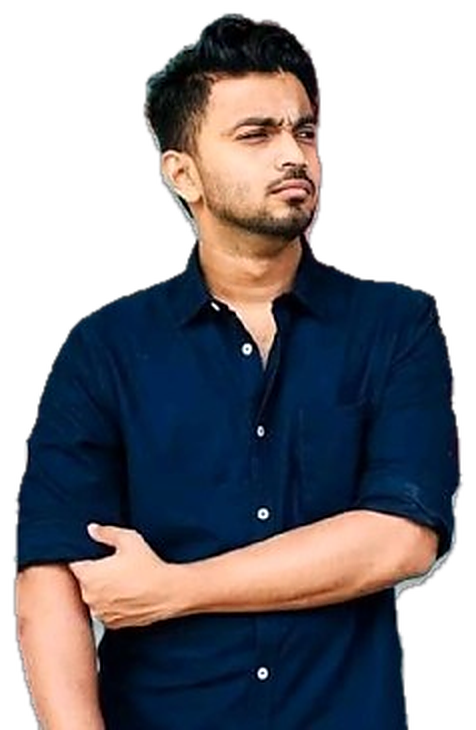
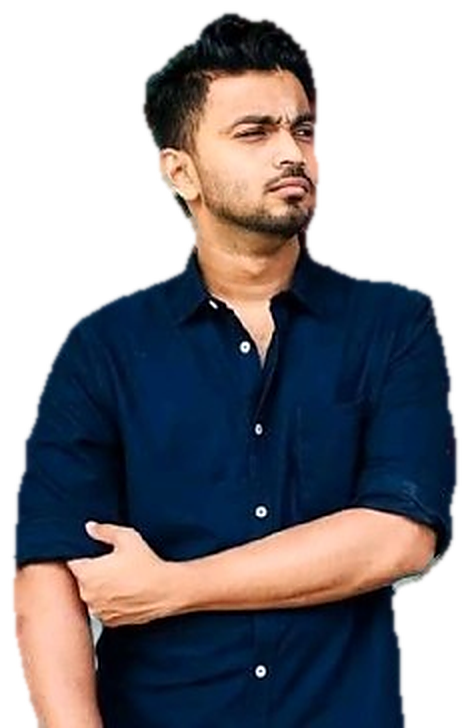
Remove the white fringe from the portrait cutout
The soft edge of the matte kept the white studio backdrop's colour. PNG stores
straight alpha, so the browser paints rgb*a + bg*(1-a) and those pixels landed
as a bright outline tracing the silhouette on the dark canvas.

Replace them instead of darkening them: white at 80% is still light. The
nearest fully opaque subject colour is pushed outward into the soft band, so
the edge composites correctly over either theme. Matte also eroded 2px rather
than 1px so the band starts inside the subject.

The earlier measurement missed this because it sampled only fully opaque
pixels. In the alpha 1-32 band, mean luminance was 159 with p90 at 255 - pure
backdrop. It is now 51.

diff --git a/src/components/sections/Hero.jsx b/src/components/sections/Hero.jsx
@@ -283,7 +283,7 @@ export default function Hero() {
               />
 
               <motion.div
-                className="relative aspect-[238/365] w-full"
+                className="relative aspect-[235/364] w-full"
                 style={{
                   x: portraitX,
                   y: portraitY,
@@ -301,8 +301,8 @@ export default function Hero() {
                   <Image
                     src="/Profile-cutout.png"
                     alt={HERO.portraitAlt}
-                    width={476}
-                    height={730}
+                    width={470}
+                    height={728}
                     priority
                     sizes="(min-width: 1024px) 22rem, 70vw"
                     className={`h-full w-full object-contain object-bottom ${portraitFilter}`}

diff --git a/scripts/generate-cutout.py b/scripts/generate-cutout.py
@@ -38,16 +38,54 @@ while q:
             visited[ny, nx] = True; q.append((ny, nx))
 
 alpha = Image.fromarray(np.where(visited, 0, 255).astype(np.uint8), mode='L')
-alpha = alpha.filter(ImageFilter.MinFilter(3))        # erode ~1px: kills the halo
-alpha = alpha.filter(ImageFilter.GaussianBlur(0.7))   # re-soften the matte edge
+alpha = alpha.filter(ImageFilter.MinFilter(5))        # erode ~2px, pulling the
+                                                      # matte inside the subject
+alpha = alpha.filter(ImageFilter.GaussianBlur(0.8))   # re-soften the matte edge
 
-af = np.asarray(alpha).astype(np.float32) / 255.0
 rgb = np.asarray(img).astype(np.float32)
-edge = (af > 0.03) & (af < 0.97)
-rgb[edge] *= 0.8                                      # darken any surviving rim
+alpha_arr = np.asarray(alpha)
+
+
+def decontaminate(rgb, known, iters=14):
+    """Push the subject's own colour outward into the soft edge.
+
+    PNG stores straight alpha, so the browser paints rgb*a + bg*(1-a). Any
+    partially transparent pixel that kept the white backdrop's colour lands as
+    a bright rim on a dark page — which is exactly the halo this removes.
+    Darkening those pixels is not enough: white at 80% is still light. They
+    have to be *replaced* with the nearest real subject colour.
+    """
+    rgb, known = rgb.copy(), known.copy()
+    h, w = known.shape
+    shifts = ((1, 0), (-1, 0), (0, 1), (0, -1), (1, 1), (1, -1), (-1, 1), (-1, -1))
+    for _ in range(iters):
+        if known.all():
+            break
+        acc = np.zeros_like(rgb)
+        cnt = np.zeros((h, w), np.float32)
+        for dy, dx in shifts:
+            # Explicit slicing rather than np.roll: wrapping would drag pixels
+            # from the opposite edge, and the subject touches the bottom.
+            ys_dst = slice(max(dy, 0), h + min(dy, 0))
+            ys_src = slice(max(-dy, 0), h + min(-dy, 0))
+            xs_dst = slice(max(dx, 0), w + min(dx, 0))
+            xs_src = slice(max(-dx, 0), w + min(-dx, 0))
+            k = known[ys_src, xs_src]
+            acc[ys_dst, xs_dst] += rgb[ys_src, xs_src] * k[..., None]
+            cnt[ys_dst, xs_dst] += k
+        newly = (~known) & (cnt > 0)
+        if not newly.any():
+            break
+        rgb[newly] = acc[newly] / cnt[newly][..., None]
+        known |= newly
+    return rgb
+
+
+# Only fully opaque pixels are trusted as uncontaminated subject colour.
+rgb = decontaminate(rgb, alpha_arr >= 250)
 
 out = Image.fromarray(
-    np.dstack([np.clip(rgb, 0, 255).astype(np.uint8), np.asarray(alpha)]), 'RGBA'
+    np.dstack([np.clip(rgb, 0, 255).astype(np.uint8), alpha_arr]), 'RGBA'
 )
 
 ys, xs = np.where(np.asarray(alpha) > 12)

diff --git a/CLAUDE.md b/CLAUDE.md
@@ -37,8 +37,9 @@ Backend, database, migrations and auth: **none**. This is a static front-end.
 - **Reading measure:** use the `.measure` class (33em), not `ch`. Inter's "0" is much wider than its average character, so `68ch` renders at ~87 characters per line.
 - Section headlines animate with `RevealHeading` (a masked slide: the heading is translated out of an `overflow-hidden` wrapper and rises back in); body copy uses `Reveal` / `RevealGroup`. Keeping those distinct is what stops the page being one identical fade repeated six times.
 - `RevealHeading` observes the **wrapper**, not the heading. A translated element sits outside its own overflow clip, and IntersectionObserver measures the clipped rect — so `whileInView` on the heading itself reports zero visible area and never fires. Anything that animates out of a mask has to be triggered from an unclipped ancestor.
+- `generate-cutout.py` **decontaminates the matte**: a partially transparent pixel that kept the white backdrop's colour paints as a bright rim, because PNG stores straight alpha and the browser composites `rgb*a + bg*(1-a)`. Darkening those pixels does not work — white at 80% is still light. They are replaced with the nearest fully opaque subject colour. If a halo ever reappears, measure the RGB of the `alpha < 250` band, not the opaque pixels; the opaque ones always look fine.
 - The portrait's cut edge is feathered by a `drop-shadow` halo in the **page colour** (`--portrait-halo-tight/mid/wide`), applied to a wrapper `div` — not to the `<img>`, whose `filter` already carries grayscale/contrast and would be overwritten. `drop-shadow` follows the alpha channel; `box-shadow` would only trace the rectangle. The halo renders *behind* the image, so it can soften a hard edge but can never hide a bright rim baked into the pixels — that has to be fixed in `scripts/generate-cutout.py`.
-- The hero renders `Profile-cutout.png`, a background-removed derivative of `Profile.jpg` produced by `scripts/generate-cutout.py` (re-runnable; never edit the PNG by hand). Replacing the photo means supplying a new transparent cutout and updating the `src`, `width`, `height` and `aspect-[238/365]` in `Hero.jsx` — dropping in a JPEG with a background will render as a white box on the dark canvas.
+- The hero renders `Profile-cutout.png`, a background-removed derivative of `Profile.jpg` produced by `scripts/generate-cutout.py` (re-runnable; never edit the PNG by hand). Replacing the photo means supplying a new transparent cutout and updating the `src`, `width`, `height` and `aspect-[235/364]` in `Hero.jsx` — dropping in a JPEG with a background will render as a white box on the dark canvas.
 - No CSS modules and no per-component `.css` files — utility classes plus the few component classes defined in `src/app/globals.css`.
 
 ---
